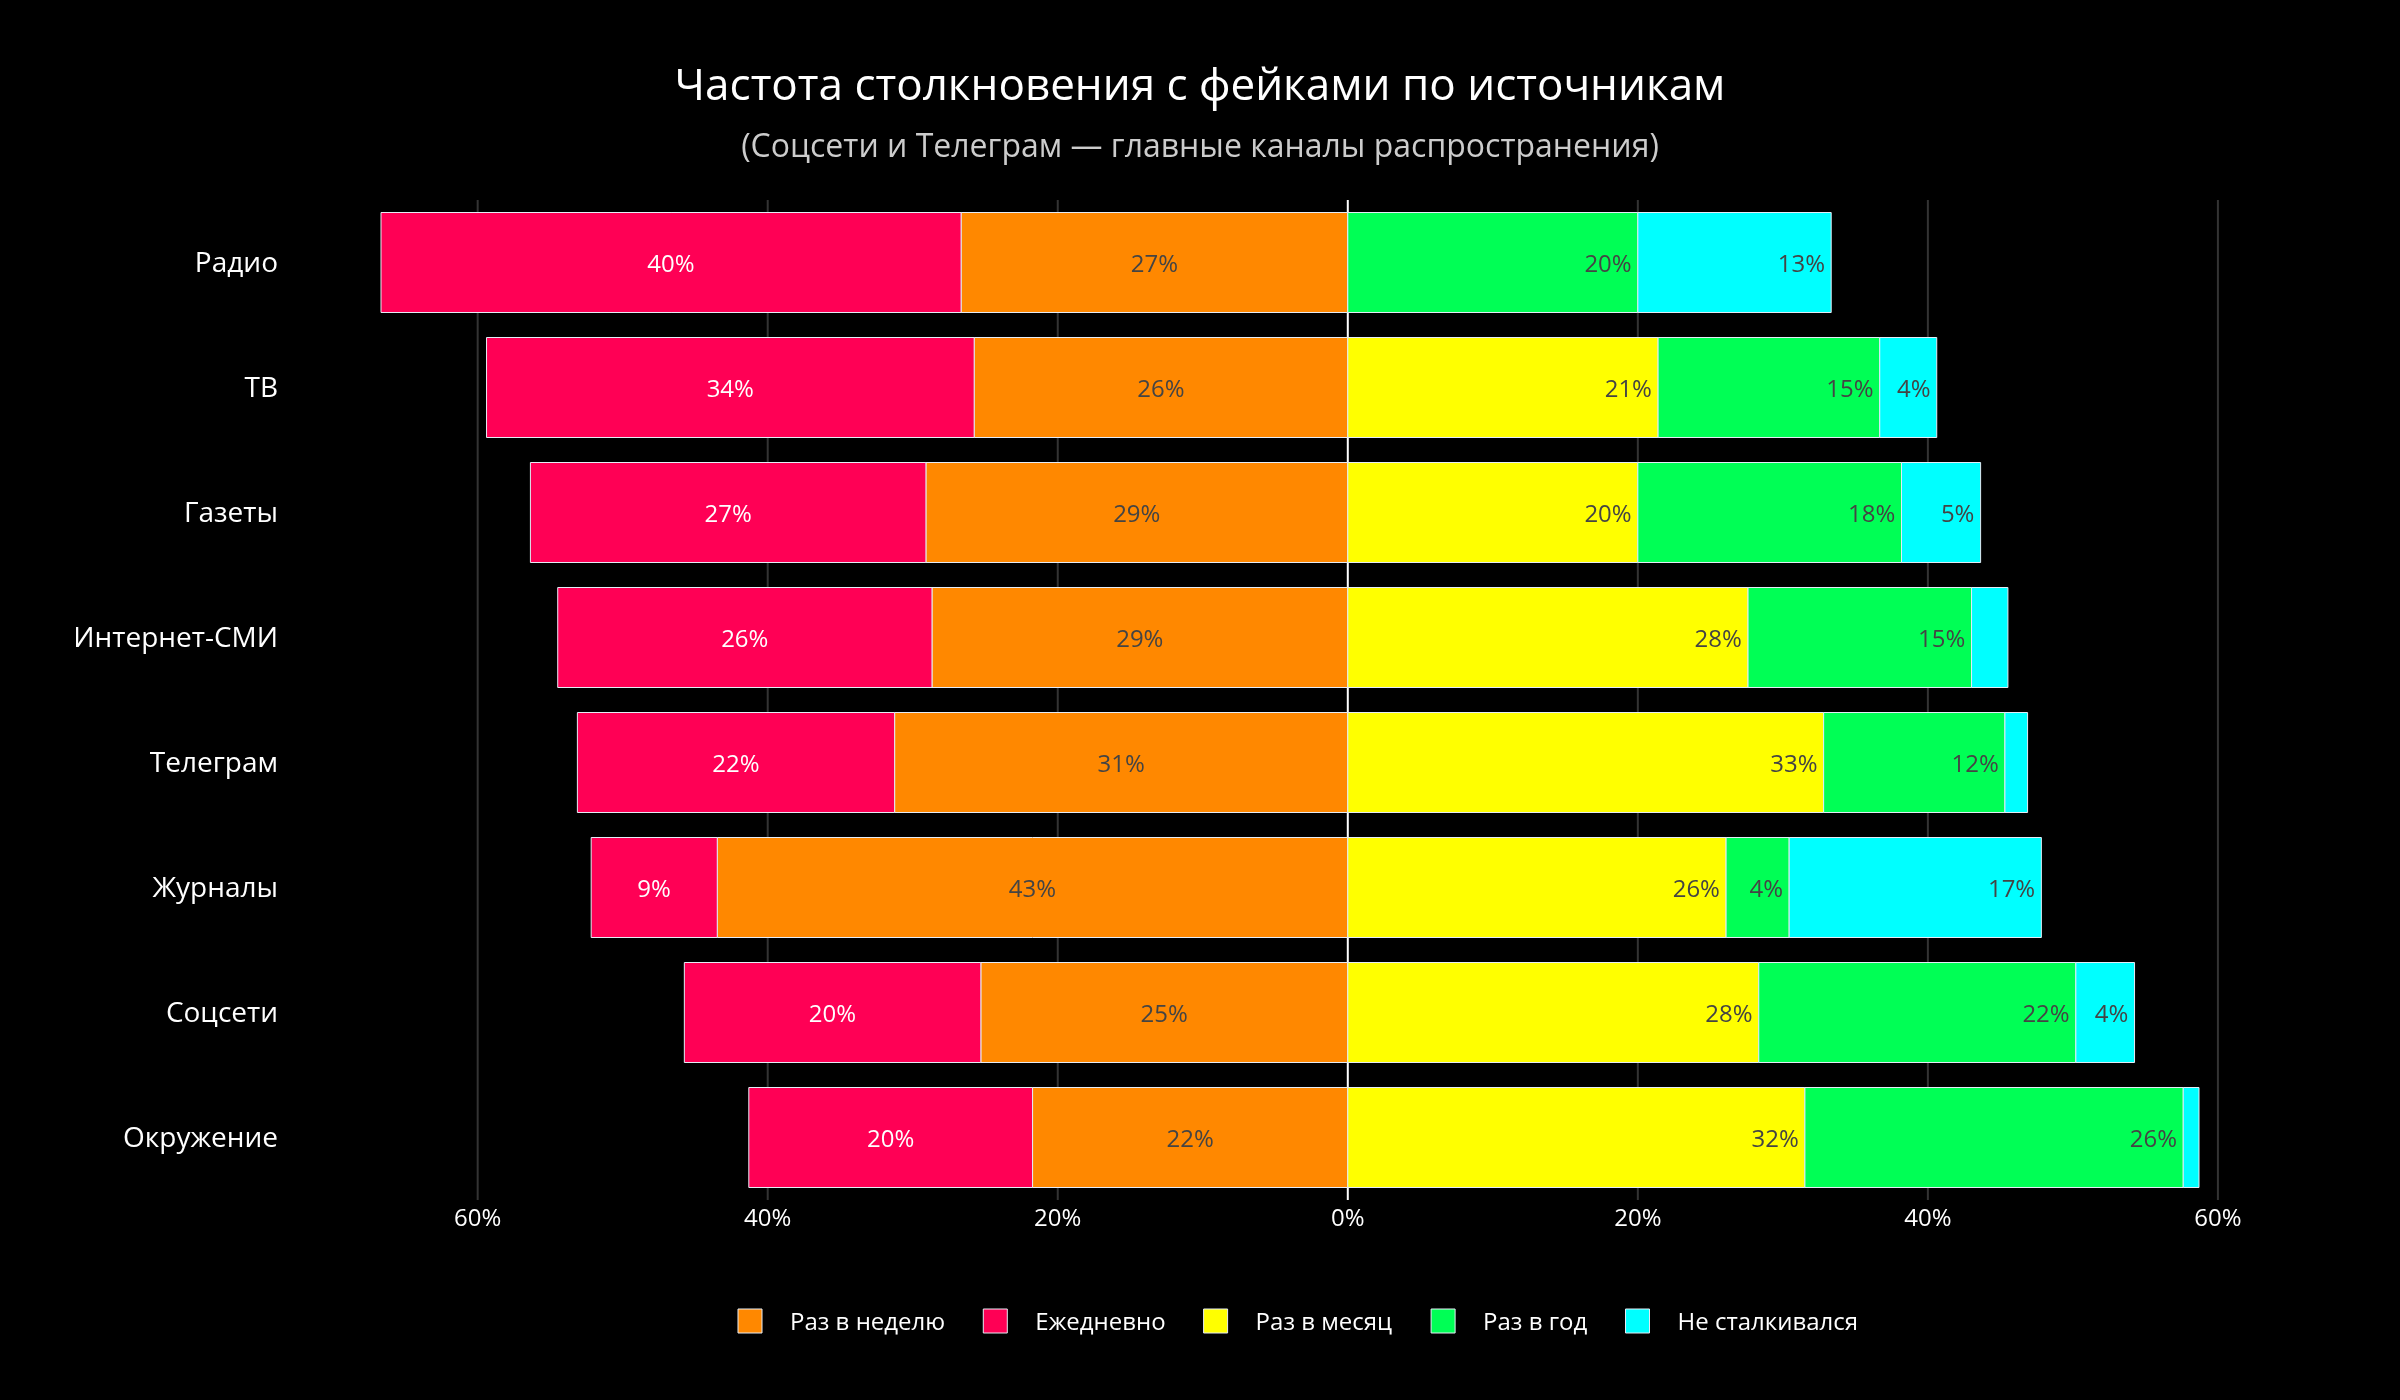
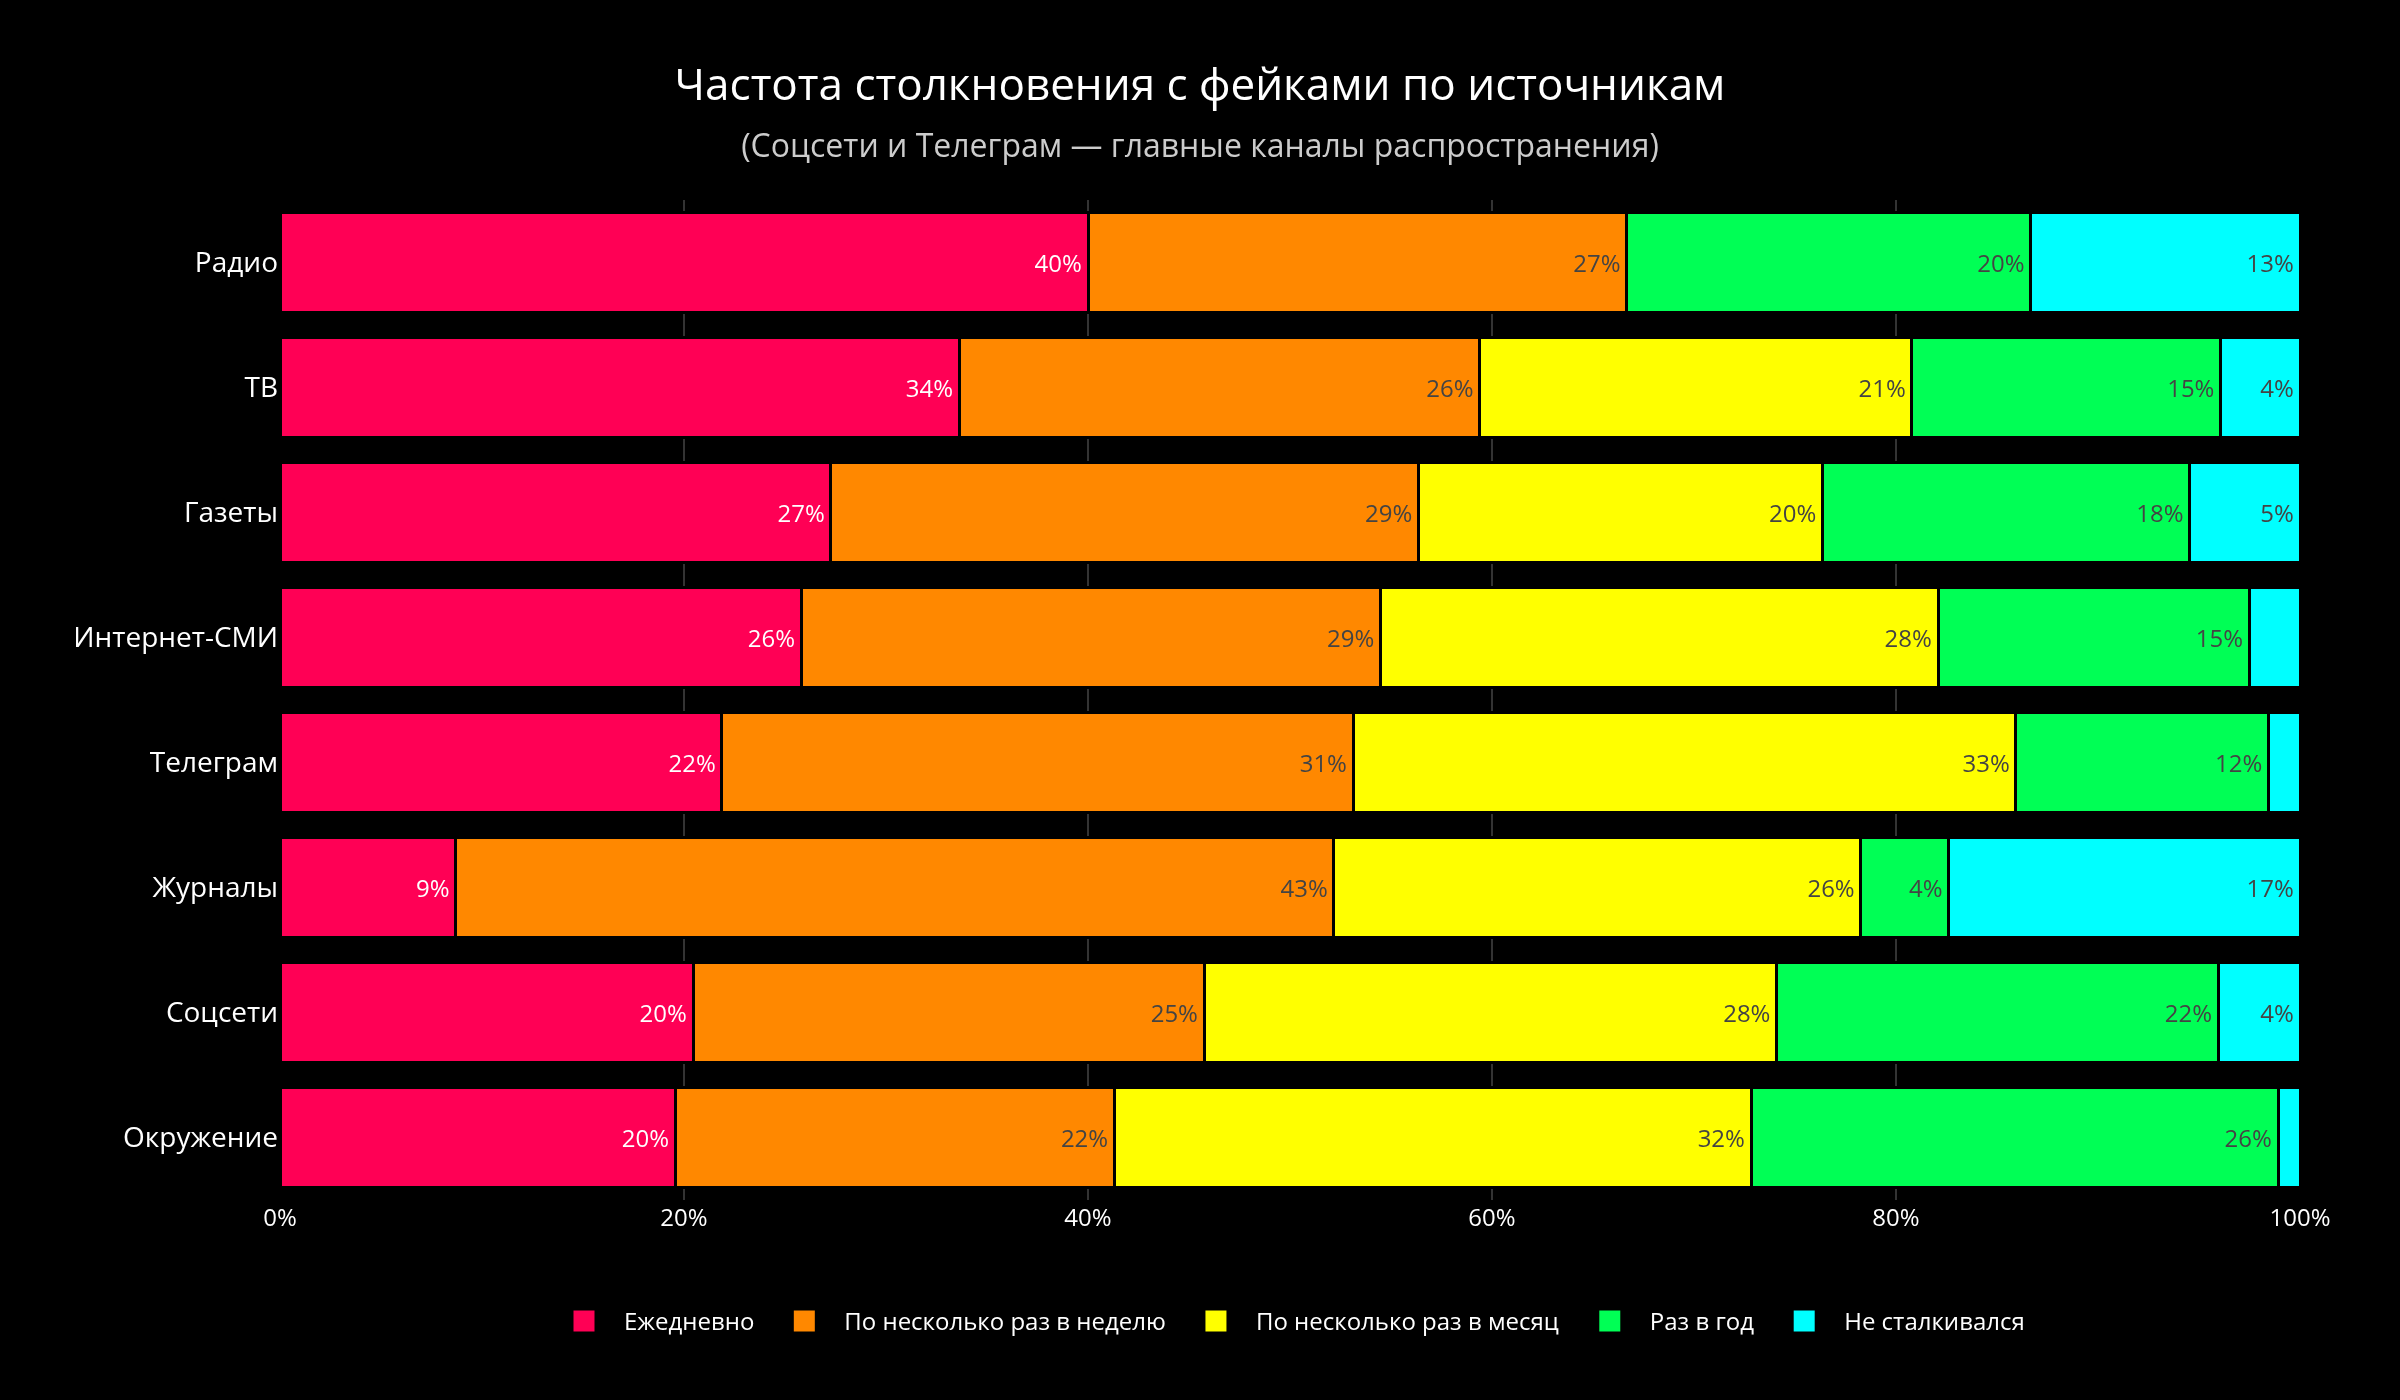
feat: graph11 change graphci type

diff --git a/src/graphs/graph11.py b/src/graphs/graph11.py
@@ -1,4 +1,5 @@
 import re
+
 import pandas as pd
 import plotly.graph_objects as go
 from loguru import logger
@@ -7,8 +8,8 @@ from config import OUTPUT_DIR, ROOT_DIR
 
 
 def run() -> None:
-    """Generate Graph 11: Diverging stacked bar chart of fake news frequency by source."""
-    logger.info("Generating Graph 11: Fake news frequency by source (Diverging Bar).")
+    """Generate Graph 11: 100% Stacked bar chart of fake news frequency by source."""
+    logger.info("Generating Graph 11: Fake news frequency by source (Stacked Bar).")
 
     # Load dataset
     df = pd.read_csv(ROOT_DIR / "data" / "origin_dataset.csv")
@@ -36,24 +37,29 @@ def run() -> None:
     }
 
     # Frequency scale mapping (Value -> Category Name)
-    # Ordered for the chart (Left to Right visually)
-    # Daily -> Weekly -> (Center) -> Monthly -> Yearly -> Never
+    # Ordered Left to Right: Daily -> Weekly -> Monthly -> Yearly -> Never
     freq_map = {
         "1. Практически ежедневно": "Ежедневно",
-        "2. По нескольку раз в неделю": "Раз в неделю",
-        "3. По нескольку раз в месяц": "Раз в месяц",
+        "2. По нескольку раз в неделю": "По несколько раз в неделю",
+        "3. По нескольку раз в месяц": "По несколько раз в месяц",
         "4. Несколько раз в год": "Раз в год",
         "5. Не сталкивался": "Не сталкивался",
     }
 
-    # Categories to exclude from normalization
-    exclude_cats = ["6. Затрудняюсь ответить", "#NULL!"]
+    # Order for stacking (Left to Right)
+    stack_order = [
+        "Ежедневно",
+        "По несколько раз в неделю",
+        "По несколько раз в месяц",
+        "Раз в год",
+        "Не сталкивался",
+    ]
 
-    # Colors (Neon/Bright as requested)
+    # Colors (Neon/Bright matching reference)
     colors = {
-        "Ежедневно": "#FF0055",  # Bright Red/Pink
-        "Раз в неделю": "#FF8800",  # Bright Orange
-        "Раз в месяц": "#FFFF00",  # Bright Yellow
+        "Ежедневно": "#FF0055",  # Bright Pink/Red
+        "По несколько раз в неделю": "#FF8800",  # Bright Orange
+        "По несколько раз в месяц": "#FFFF00",  # Bright Yellow
         "Раз в год": "#00FF55",  # Bright Green
         "Не сталкивался": "#00FFFF",  # Cyan
     }
@@ -101,47 +107,16 @@ def run() -> None:
     # Convert to DataFrame
     plot_df = pd.DataFrame(data_rows)
 
-    # Sort by "Daily + Weekly" (Frequency) descending,
-    # but put Radio at bottom if N is small?
-    # The reference image has Radio (highest freq) at bottom.
-    # I'll sort by Frequency but maybe the user wants the exact order from image?
-    # The user said "approximately like this". Frequency sort is standard.
-    # However, to match the "Reference" feel where Radio is an outlier/small base,
-    # I will sort by N (Count) descending?
-    # Telegram(207), Internet(305), TV(258)... Social(567) is max.
-    # Let's stick to Frequency sort (Daily + Weekly) as it highlights the "problematic" channels.
-    plot_df["High_Freq_Sum"] = plot_df["Ежедневно"] + plot_df["Раз в неделю"]
+    # Sort by "Daily + Weekly" (Frequency) descending
+    plot_df["High_Freq_Sum"] = plot_df["Ежедневно"] + plot_df["По несколько раз в неделю"]
     plot_df = plot_df.sort_values(
         "High_Freq_Sum", ascending=True
     )  # Ascending for horizontal bar (top is highest)
 
     fig = go.Figure()
 
-    # Left side: Daily, Weekly
-    left_cats = ["Раз в неделю", "Ежедневно"]  # Inner to Outer
-
-    for cat in left_cats:
-        values = plot_df[cat]
-        fig.add_trace(
-            go.Bar(
-                y=plot_df["Source"],
-                x=-values,
-                name=cat,
-                orientation="h",
-                marker_color=colors[cat],
-                text=values.apply(lambda x: f"{x:.0f}%" if x > 3 else ""),
-                textposition="auto",
-                customdata=values,
-                hovertemplate=f"<b>{cat}</b><br>%{{y}}: %{{customdata:.1f}}%<extra></extra>",
-                # Ensure text is displayed for negative bars
-                insidetextanchor="middle",
-            )
-        )
-
-    # Right side: Monthly, Yearly, Never
-    right_cats = ["Раз в месяц", "Раз в год", "Не сталкивался"]  # Inner to Outer
-
-    for cat in right_cats:
+    # Add traces in stack order
+    for cat in stack_order:
         values = plot_df[cat]
         fig.add_trace(
             go.Bar(
@@ -152,14 +127,12 @@ def run() -> None:
                 marker_color=colors[cat],
                 text=values.apply(lambda x: f"{x:.0f}%" if x > 3 else ""),
                 textposition="auto",
-                customdata=values,
-                hovertemplate=f"<b>{cat}</b><br>%{{y}}: %{{customdata:.1f}}%<extra></extra>",
+                hovertemplate=f"<b>{cat}</b><br>%{{y}}: %{{x:.1f}}%<extra></extra>",
+                # Add thin black border for separation
+                marker_line_color="black",
+                marker_line_width=1.5,
             )
         )
-
-    # X-axis setup
-    tick_vals = [-100, -80, -60, -40, -20, 0, 20, 40, 60, 80, 100]
-    tick_text = [str(abs(x)) + "%" if x != 0 else "0%" for x in tick_vals]
 
     fig.update_layout(
         title={
@@ -168,16 +141,15 @@ def run() -> None:
             "xanchor": "center",
             "font": {"size": 22, "color": "#FFFFFF"},
         },
-        barmode="relative",
+        barmode="stack",  # Standard stacked bar
         xaxis={
             "title": "",
-            "tickvals": tick_vals,
-            "ticktext": tick_text,
+            "tickvals": [0, 20, 40, 60, 80, 100],
+            "ticktext": ["0%", "20%", "40%", "60%", "80%", "100%"],
             "gridcolor": "#333333",
-            "zeroline": True,
-            "zerolinecolor": "#FFFFFF",
-            "zerolinewidth": 1,
+            "zeroline": False,
             "tickfont": {"size": 12, "color": "#FFFFFF"},
+            "range": [0, 100],  # Force 0-100 scale
         },
         yaxis={
             "title": "",
@@ -191,8 +163,10 @@ def run() -> None:
             "x": 0.5,
             "font": {"color": "#FFFFFF", "size": 12},
             "bgcolor": "rgba(0,0,0,0)",
+            # Reverse legend order to match visual stacking (Left-to-Right)
+            "traceorder": "normal",
         },
-        paper_bgcolor="#000000",  # Pure black background like reference
+        paper_bgcolor="#000000",  # Pure black background
         plot_bgcolor="#000000",
         margin={"l": 120, "r": 50, "t": 100, "b": 100},
         height=700,
